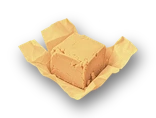
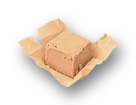
Hefe liegt im Dachbodenkoffer

diff --git a/quest-ostern.html b/quest-ostern.html
@@ -367,7 +367,7 @@
 
   // Wird bei jedem Paket neu gesetzt. Steht unten im Startbildschirm, damit man
   // sofort sieht, welche Fassung gerade live ist.
-  const BAUSTAND = '05.11.2026 16:46';
+  const BAUSTAND = '05.11.2026 16:50';
   const SPEICHER_KEY = 'ostern_fortschritt';
   const HINWEISE_GESAMT = 3;
   // Gemeinsamer Faktor für alle Eier. Die Radien in EIER bleiben, hier wird
@@ -841,9 +841,9 @@
     { id: 'sb_schrank', ansicht: 'schreibtisch_nah', x: 10, y: 585, w: 470, h: 302, typ: 'ausschnitt', klang: 'schranktuer', zustand: 'sb_schrank_offen', label: 'Schrank unter der Tischplatte' },
     { id: 'sb_schublade', ansicht: 'schreibtisch_nah', x: 1240, y: 572, w: 490, h: 275, typ: 'ausschnitt', klang: 'schublade', zustand: 'sb_schublade_offen', label: 'Schublade' },
     // ---- Backzutaten. nurGruppe entscheidet, wer sie sieht. ----
-    { id: 'z_hefe', ansicht: 'koffer_nah', x: 897, y: 341, w: 156, h: 118, typ: 'nehmen', zustand: 'hefe_weg',
-      gibt: 'hefe', nurGruppe: 'A', sichtbarWenn: 'koffer_offen', label: 'Päckchen im Koffer',
-      ohneMarke: true, zeichnung: liegt('leg-hefe.webp', 897, 341, 156, 118, 'hefe_weg')},
+    { id: 'z_hefe', ansicht: 'dachboden', x: 459, y: 648, w: 136, h: 105, typ: 'nehmen', zustand: 'hefe_weg',
+      gibt: 'hefe', nurGruppe: 'A', sichtbarWenn: 'dach_koffer_offen', label: 'Päckchen im Dachbodenkoffer',
+      ohneMarke: true, zeichnung: liegt('leg-hefe.webp', 459, 648, 136, 105, 'hefe_weg')},
         // Die Butter liegt im zweiten Fach. Nach dem Nehmen wird das ganze Bild
     // getauscht, damit keine Kante zu sehen ist.
     { id: 'kuehl_ohne_butter', ansicht: 'kuehl_nah', x: 0, y: 0, w: 1774, h: 887, typ: 'overlay', zustand: 'butter_weg',
@@ -1233,7 +1233,7 @@
     { id: 'e16', ansicht: 'tisch_nah',  x: 330,  y: 236, r: 31, farbe: '#c9b48a', muster: 'punkte',   ebene: 1, sichtbarWenn: null },  // steht in der Tasse auf dem Couchtisch, Unterkante knapp über dem Tassenrand-Flicken
     { id: 'e17', ansicht: 'kueche',     x: 955,  y: 602, r: 9,  farbe: '#5a4a38', muster: 'punkte', ebene: 2, sichtbarWenn: ['k_ofen_offen', 'kueche_licht'] },  // auf dem Rost im Backofen
     { id: 'e18', ansicht: 'acizimmer',  x: 348,  y: 580, r: 8,  farbe: '#5a4030', muster: 'zickzack', ebene: 2, sichtbarWenn: 'aci_tisch_offen' },  // in der Nachttischschublade
-    { id: 'e19', ansicht: 'dachboden',  x: 545,  y: 676, r: 17, farbe: '#9a8358', muster: 'streifen', ebene: 1, sichtbarWenn: 'dach_koffer_offen', hinweis: 'liegt in etwas, das man erst aufklappen muss.'},  // im offenen Koffer
+    { id: 'e19', ansicht: 'dachboden',  x: 700, y: 742, r: 17, farbe: '#9a8358', muster: 'streifen', ebene: 1, sichtbarWenn: 'dach_koffer_offen', hinweis: 'liegt neben etwas, das man erst aufklappen muss.'},  // im offenen Koffer
     { id: 'e20', ansicht: 'dachboden',  x: 1378, y: 742, r: 16, farbe: '#8d7f63', muster: 'punkte', ebene: 1, sichtbarWenn: 'dach_truhe_offen' , nurGruppe: 'A', hinweis: 'liegt in etwas, das man erst aufklappen muss.'},  // in der offenen Blechtruhe
     { id: 'e34', ansicht: 'dachboden',  x: 312,  y: 352, r: 14, farbe: '#c08a7a', muster: 'punkte', ebene: 1, sichtbarWenn: 'schwein_kaputt', hinweis: 'steckt in etwas, das man nicht aufmachen, sondern kaputt machen muss.'},  // zwischen den Scherben des Sparschweins
     { id: 'e35', ansicht: 'dachboden',  x: 836,  y: 306, r: 14, farbe: '#6d6253', muster: 'zickzack', ebene: 1, sichtbarWenn: null },  // getarnt zwischen den Krügen auf dem Tisch
